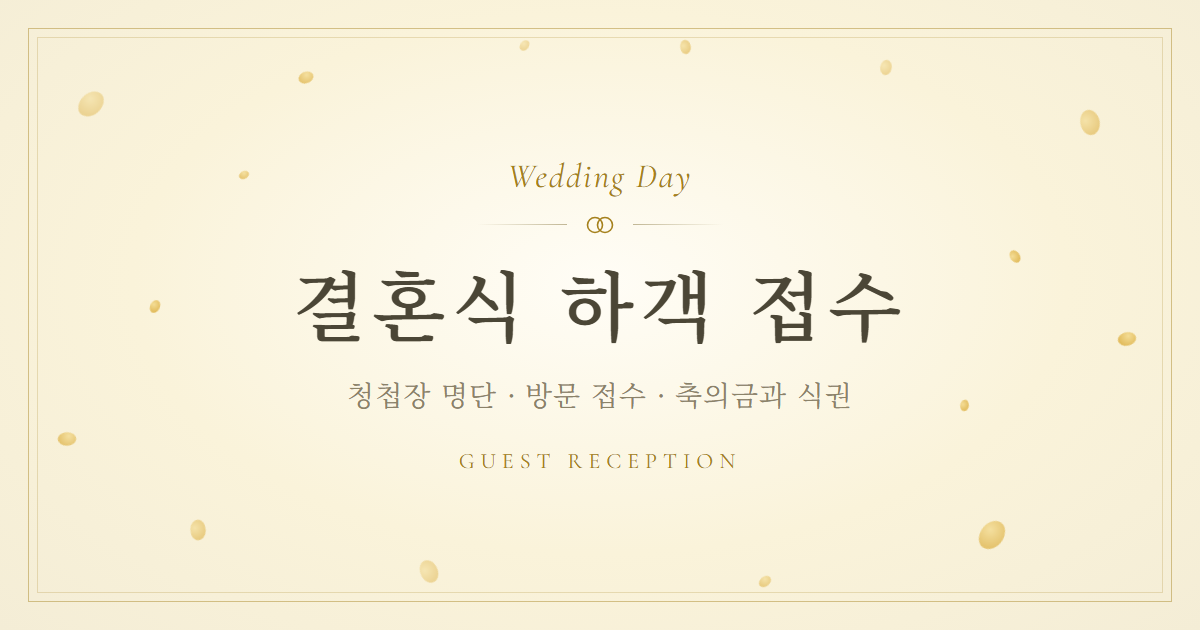
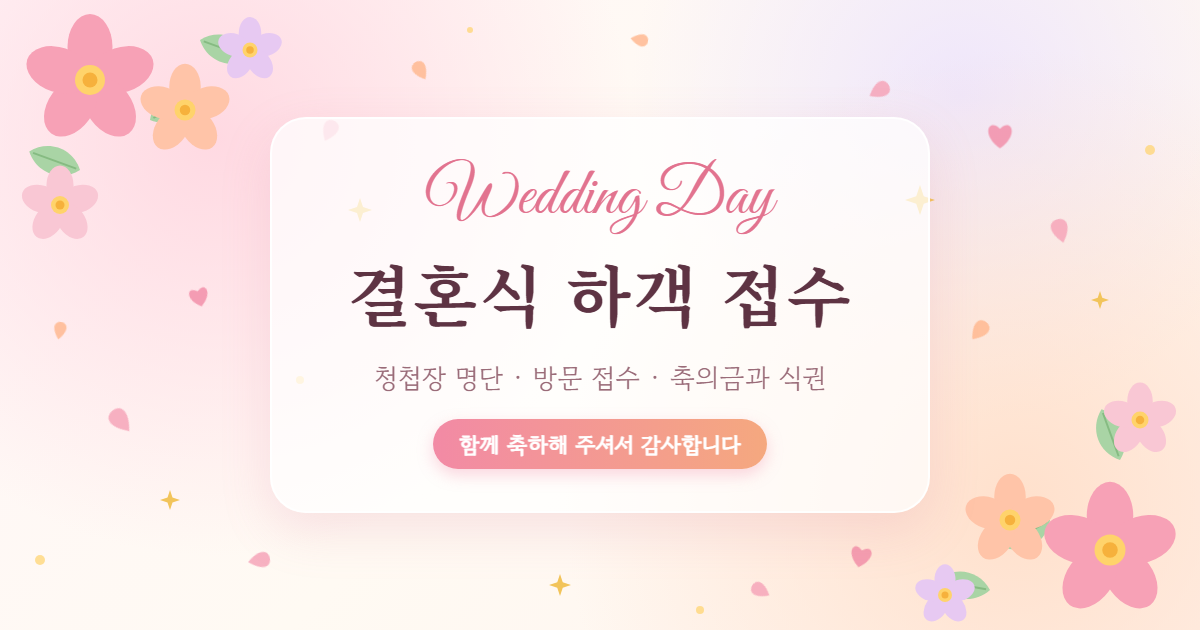
썸네일을 같은 화사한 꽃 배경으로 변경 (접수·관리자)

diff --git a/wedding-og-source.html b/wedding-og-source.html
@@ -3,62 +3,107 @@
 <head>
 <meta charset="UTF-8">
 <!-- 카카오톡 썸네일 원본 (1200x630). wedding-og.png / wedding-admin-og.png(?admin) 로 캡처해서 사용 -->
-<!-- 모바일 청첩장과 같은 분위기: 아이보리 바탕, 올리브 갈색 글자, 금색 포인트, 흩날리는 꽃잎, 명조 글꼴 -->
-<link rel="stylesheet" href="https://fonts.googleapis.com/css2?family=Cormorant+Garamond:ital,wght@0,400;0,500;1,400&family=Noto+Serif+KR:wght@400;500;600&display=swap">
+<!-- 두 썸네일은 같은 배경(연분홍·아이보리·복숭아빛, 꽃송이와 꽃잎), 글씨만 다름 -->
+<link rel="stylesheet" href="https://fonts.googleapis.com/css2?family=Great+Vibes&family=Noto+Serif+KR:wght@500;700&family=Gowun+Dodum&display=swap">
 <style>
   * { margin: 0; padding: 0; box-sizing: border-box; }
   html, body { width: 1200px; height: 630px; overflow: hidden; }
-  body { font-family: 'Noto Serif KR', serif; color: #4b4636; position: relative;
-    background: radial-gradient(ellipse at 50% 45%, #fffdf6 0%, #faf3da 55%, #f4edd6 100%); }
-  .frame { position: absolute; inset: 28px; border: 1.5px solid rgba(165,129,29,.45); }
-  .frame::after { content: ''; position: absolute; inset: 8px; border: 1px solid rgba(165,129,29,.22); }
-  .petals { position: absolute; inset: 0; }
-  .petals i { position: absolute; display: block; border-radius: 60% 40% 60% 40%; background: radial-gradient(circle at 35% 35%, #f3d886, #ddb041 70%); filter: blur(.6px); }
-  .content { position: absolute; inset: 0; display: flex; flex-direction: column; align-items: center; justify-content: center; text-align: center; }
-  .eyebrow { font-family: 'Cormorant Garamond', serif; font-style: italic; font-size: 34px; color: #a5811d; letter-spacing: 2px; }
-  .orn { display: flex; align-items: center; gap: 16px; margin: 18px 0 22px; color: #a5811d; }
-  .orn span { width: 90px; height: 1px; background: linear-gradient(90deg, transparent, #c1b795); }
-  .orn span:last-child { background: linear-gradient(90deg, #c1b795, transparent); }
-  h1 { font-size: 76px; font-weight: 600; letter-spacing: 6px; line-height: 1.2; }
-  p { font-size: 28px; color: #8b8268; margin-top: 26px; letter-spacing: 1px; font-weight: 400; }
-  .tag { margin-top: 34px; font-family: 'Cormorant Garamond', serif; font-size: 22px; letter-spacing: 6px; color: #a5811d; text-transform: uppercase; }
-
-  body.admin { background: radial-gradient(ellipse at 50% 45%, #5a5442 0%, #4b4636 60%, #3d3a2d 100%); color: #faf3da; }
-  body.admin .frame { border-color: rgba(221,176,65,.5); }
-  body.admin .frame::after { border-color: rgba(221,176,65,.25); }
-  body.admin .eyebrow, body.admin .tag, body.admin .orn { color: #ddb041; }
-  body.admin p { color: #c1b795; }
-  body.admin .petals i { opacity: .55 !important; }
+  body { position: relative; color: #6b3a4a; font-family: 'Noto Serif KR', serif;
+    background:
+      radial-gradient(circle at 18% 22%, rgba(255,214,224,.9) 0, rgba(255,214,224,0) 38%),
+      radial-gradient(circle at 85% 80%, rgba(255,222,200,.9) 0, rgba(255,222,200,0) 40%),
+      radial-gradient(circle at 80% 15%, rgba(232,222,255,.7) 0, rgba(232,222,255,0) 30%),
+      linear-gradient(135deg, #fff6f8 0%, #fffaf3 50%, #fff3ee 100%); }
+  svg.deco { position: absolute; inset: 0; }
+  .card { position: absolute; left: 50%; top: 50%; transform: translate(-50%, -50%); width: 660px; padding: 46px 40px 42px; text-align: center;
+    background: rgba(255,255,255,.72); border-radius: 36px; box-shadow: 0 18px 50px rgba(214,120,150,.18); border: 2px solid rgba(255,255,255,.9); }
+  .script { font-family: 'Great Vibes', cursive; font-size: 66px; line-height: 1; color: #e2738f; }
+  h1 { font-size: 66px; font-weight: 700; letter-spacing: 2px; margin-top: 14px; color: #5e3343; }
+  .sub { font-family: 'Gowun Dodum', sans-serif; font-size: 27px; color: #9a6b78; margin-top: 18px; }
+  .pill { display: inline-block; margin-top: 22px; font-family: 'Gowun Dodum', sans-serif; font-size: 22px; font-weight: 700; color: #fff;
+    background: linear-gradient(90deg, #f28aa5, #f5a87f); padding: 9px 26px; border-radius: 999px; box-shadow: 0 6px 16px rgba(242,138,165,.35); }
 </style>
 </head>
 <body>
-  <div class="petals" id="petals"></div>
-  <div class="frame"></div>
-  <div class="content">
-    <div class="eyebrow" id="eyebrow">Wedding Day</div>
-    <div class="orn"><span></span>
-      <svg width="34" height="20" viewBox="0 0 34 20" fill="none" stroke="currentColor" stroke-width="1.6"><circle cx="12" cy="10" r="7.5"/><circle cx="22" cy="10" r="7.5"/></svg>
-    <span></span></div>
-    <h1 id="title">결혼식 하객 접수</h1>
-    <p id="desc">청첩장 명단 · 방문 접수 · 축의금과 식권</p>
-    <div class="tag" id="tag">Guest Reception</div>
-  </div>
+<svg class="deco" width="1200" height="630" viewBox="0 0 1200 630">
+  <defs>
+    <!-- 다섯 장 꽃송이 -->
+    <g id="flower">
+      <g fill="currentColor">
+        <ellipse cx="0" cy="-22" rx="15" ry="22"/>
+        <ellipse cx="0" cy="-22" rx="15" ry="22" transform="rotate(72)"/>
+        <ellipse cx="0" cy="-22" rx="15" ry="22" transform="rotate(144)"/>
+        <ellipse cx="0" cy="-22" rx="15" ry="22" transform="rotate(216)"/>
+        <ellipse cx="0" cy="-22" rx="15" ry="22" transform="rotate(288)"/>
+      </g>
+      <circle r="10" fill="#ffd36b"/>
+      <circle r="5" fill="#f6b13c"/>
+    </g>
+    <g id="leaf"><path d="M0 0 C 14 -18, 40 -18, 54 0 C 40 18, 14 18, 0 0 Z" fill="#a9d4a5"/><path d="M4 0 L 50 0" stroke="#86bb82" stroke-width="2"/></g>
+    <path id="petal" d="M0 -10 C 8 -10, 12 -2, 0 12 C -12 -2, -8 -10, 0 -10 Z"/>
+    <path id="heart" d="M0 6 C -14 -4, -8 -16, 0 -8 C 8 -16, 14 -4, 0 6 Z"/>
+    <g id="spark"><path d="M0 -10 L2.5 -2.5 L10 0 L2.5 2.5 L0 10 L-2.5 2.5 L-10 0 L-2.5 -2.5 Z" fill="#f2c45a"/></g>
+  </defs>
+
+  <!-- 왼쪽 위 꽃다발 -->
+  <use href="#leaf" transform="translate(150 120) rotate(-30)"/>
+  <use href="#leaf" transform="translate(80 170) rotate(200)"/>
+  <use href="#leaf" transform="translate(200 40) rotate(20)"/>
+  <use href="#flower" transform="translate(90 80) scale(1.5)" style="color:#f7a1b6"/>
+  <use href="#flower" transform="translate(185 110) scale(1.05)" style="color:#ffc4a8"/>
+  <use href="#flower" transform="translate(60 205) scale(.9)" style="color:#f9c7d4"/>
+  <use href="#flower" transform="translate(250 50) scale(.75)" style="color:#e7c9f2"/>
+
+  <!-- 오른쪽 아래 꽃다발 -->
+  <use href="#leaf" transform="translate(1050 520) rotate(150)"/>
+  <use href="#leaf" transform="translate(1120 460) rotate(-110)"/>
+  <use href="#leaf" transform="translate(990 590) rotate(190)"/>
+  <use href="#flower" transform="translate(1110 550) scale(1.55)" style="color:#f7a1b6"/>
+  <use href="#flower" transform="translate(1010 520) scale(1.05)" style="color:#ffc4a8"/>
+  <use href="#flower" transform="translate(1140 420) scale(.85)" style="color:#f9c7d4"/>
+  <use href="#flower" transform="translate(945 595) scale(.7)" style="color:#e7c9f2"/>
+
+  <!-- 흩날리는 꽃잎·하트·반짝이 -->
+  <g fill="#f6a5b9" opacity=".85">
+    <use href="#petal" transform="translate(330 130) rotate(25)"/>
+    <use href="#petal" transform="translate(120 420) rotate(-40) scale(1.2)"/>
+    <use href="#petal" transform="translate(880 90) rotate(60)"/>
+    <use href="#petal" transform="translate(1060 230) rotate(-15) scale(1.1)"/>
+    <use href="#petal" transform="translate(260 560) rotate(80)"/>
+    <use href="#petal" transform="translate(760 590) rotate(-60) scale(.9)"/>
+  </g>
+  <g fill="#ffb990" opacity=".85">
+    <use href="#petal" transform="translate(420 70) rotate(-30) scale(.9)"/>
+    <use href="#petal" transform="translate(980 330) rotate(40)"/>
+    <use href="#petal" transform="translate(60 330) rotate(10) scale(.8)"/>
+    <use href="#petal" transform="translate(640 40) rotate(100) scale(.8)"/>
+  </g>
+  <g fill="#f28aa5" opacity=".8">
+    <use href="#heart" transform="translate(1000 140) scale(1.4)"/>
+    <use href="#heart" transform="translate(200 300) scale(1.1) rotate(-15)"/>
+    <use href="#heart" transform="translate(860 560) scale(1.2) rotate(12)"/>
+  </g>
+  <use href="#spark" transform="translate(360 210) scale(1.2)"/>
+  <use href="#spark" transform="translate(920 200) scale(1.5)"/>
+  <use href="#spark" transform="translate(170 500) scale(1)"/>
+  <use href="#spark" transform="translate(1100 300) scale(.9)"/>
+  <use href="#spark" transform="translate(560 585) scale(1.1)"/>
+  <g fill="#ffd36b" opacity=".7">
+    <circle cx="300" cy="380" r="4"/><circle cx="1150" cy="150" r="5"/><circle cx="470" cy="30" r="3"/><circle cx="700" cy="610" r="4"/><circle cx="40" cy="560" r="5"/>
+  </g>
+</svg>
+
+<div class="card">
+  <div class="script">Wedding Day</div>
+  <h1 id="title">결혼식 하객 접수</h1>
+  <div class="sub" id="desc">청첩장 명단 · 방문 접수 · 축의금과 식권</div>
+  <div class="pill" id="tag">함께 축하해 주셔서 감사합니다</div>
+</div>
 <script>
-  // 꽃잎 위치는 고정값 (캡처할 때마다 같은 결과)
-  var P = [[80,90,22,30],[190,520,16,-20],[300,70,12,50],[150,300,10,10],[420,560,18,-40],[1080,110,20,-30],[980,520,24,20],
-           [1120,330,14,60],[880,60,12,-10],[760,575,10,35],[60,430,14,70],[1010,250,10,-50],[520,40,9,15],[680,40,11,-25],[240,170,8,40],[960,400,9,-15]];
-  var box = document.getElementById('petals');
-  P.forEach(function (p, i) {
-    var el = document.createElement('i');
-    el.style.cssText = 'left:' + p[0] + 'px;top:' + p[1] + 'px;width:' + p[2] + 'px;height:' + Math.round(p[2] * 1.25) + 'px;transform:rotate(' + p[3] + 'deg);opacity:' + (0.45 + (i % 4) * 0.12);
-    box.appendChild(el);
-  });
   if (location.search.indexOf('admin') >= 0) {
-    document.body.classList.add('admin');
-    document.getElementById('eyebrow').textContent = 'Wedding Day';
     document.getElementById('title').textContent = '하객 접수 관리자';
     document.getElementById('desc').textContent = '앱 설정 · 그룹 · 접수 담당자 · 자료 내보내기';
-    document.getElementById('tag').textContent = 'Admin Only';
+    document.getElementById('tag').textContent = '관리자 전용';
   }
 </script>
 </body>

diff --git a/manage.html b/manage.html
@@ -10,7 +10,7 @@
   <meta property="og:title" content="결혼식 하객 접수 관리자" />
   <meta property="og:description" content="관리자 전용 · 앱 설정, 그룹, 접수 담당자 계정, 자료 내보내기" />
   <meta property="og:type" content="website" />
-  <meta property="og:image" content="https://cgn210-alt.github.io/wedding-guest/wedding-admin-og.png?v=2" />
+  <meta property="og:image" content="https://cgn210-alt.github.io/wedding-guest/wedding-admin-og.png?v=3" />
   <meta property="og:image:width" content="1200" />
   <meta property="og:image:height" content="630" />
   <meta name="twitter:card" content="summary_large_image" />

diff --git a/index.html b/index.html
@@ -9,7 +9,7 @@
 <meta property="og:title" content="결혼식 하객 접수">
 <meta property="og:description" content="청첩장 명단 · 방문 접수 · 축의금 · 식권 · 실시간 통계">
 <meta property="og:type" content="website">
-<meta property="og:image" content="https://cgn210-alt.github.io/wedding-guest/wedding-og.png?v=2">
+<meta property="og:image" content="https://cgn210-alt.github.io/wedding-guest/wedding-og.png?v=3">
 <meta property="og:image:width" content="1200">
 <meta property="og:image:height" content="630">
 <meta name="twitter:card" content="summary_large_image">
